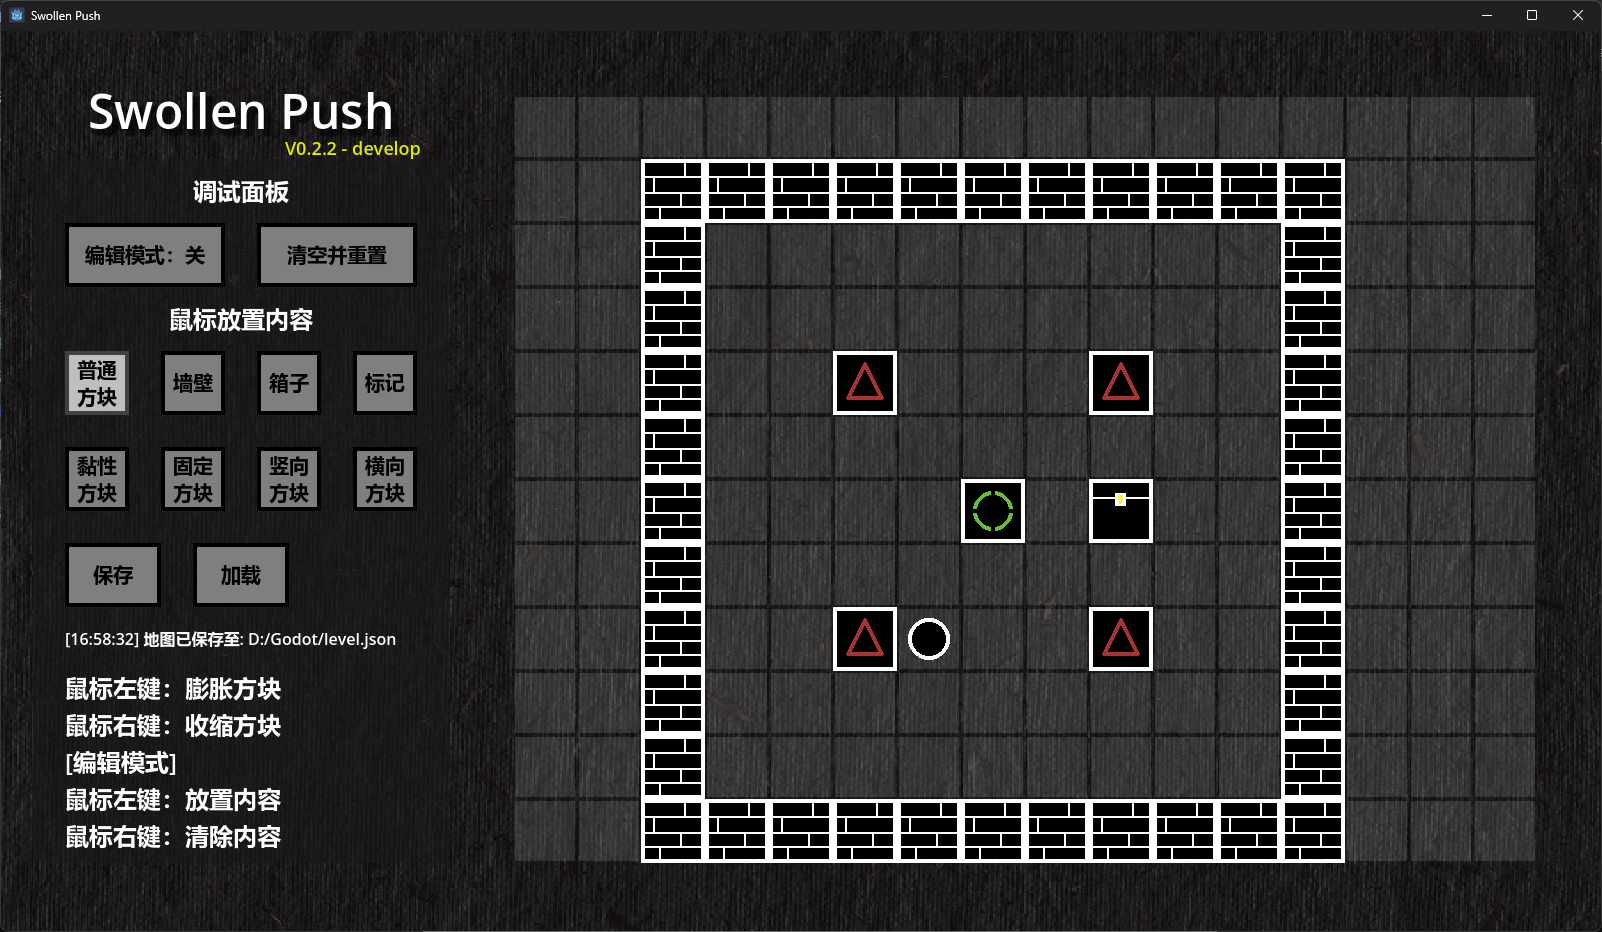
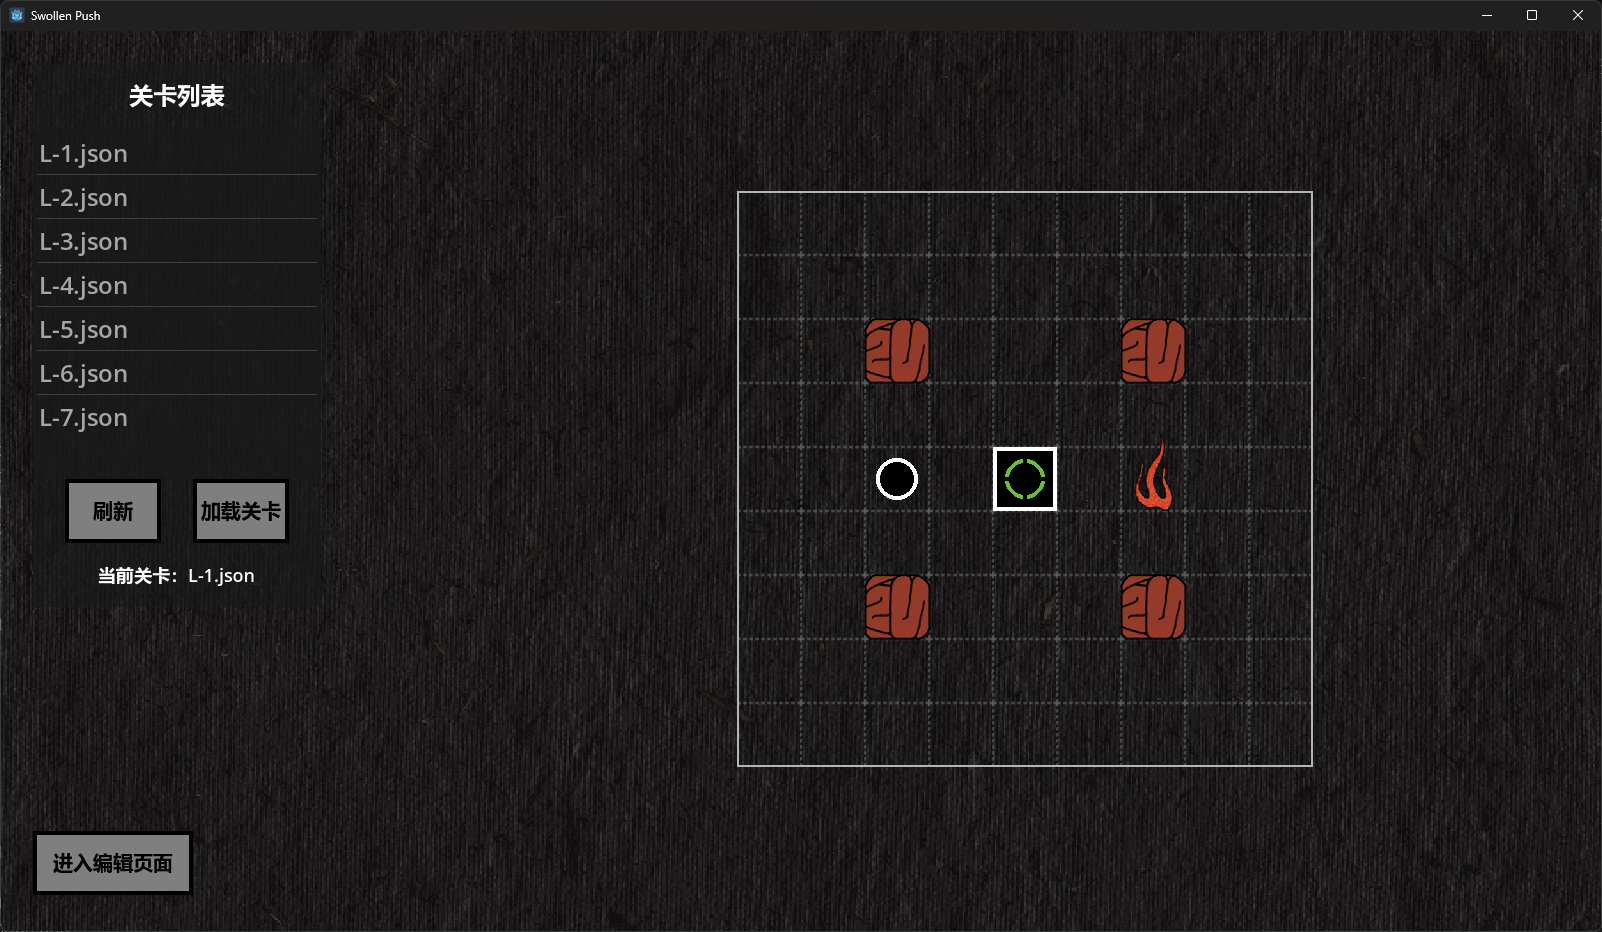
0.3.0 fix

diff --git a/README.md b/README.md
@@ -3,7 +3,7 @@
 
 这是一个为Gamejam而写的类推箱子游戏。
 
-当前版本：0.2.2
+当前版本：0.3.0
 
 ### 操作说明
 鼠标左键：膨胀方块
@@ -16,9 +16,7 @@
 
 鼠标右键：清除内容
 
-目前可以设置的物体有：方块（普通、黏性、固定、横向、竖向）、箱子、墙壁、洞穴；
-
-
+目前可以设置的物体有：方块（普通、黏性、固定、爆炸）、箱子、墙壁、洞穴；
 
 
 保存：将当前地图以json文件保存至当前目录下
@@ -32,23 +30,25 @@
 
 **方块可以改变大小**：鼠标左键方块使其膨胀，右键使其收缩——可以利用这一点推动箱子；
 
-方块的大小有1x1、3x3、5x5三种形态（横向和竖向方块例外）；
+方块的大小有1x1、3x3、5x5三种形态；
 
 墙壁无法被推动，也改变不了大小；
 
 洞穴没有体积，只需要将箱子推到这里就好；
 
-方块有**五种**类型：**普通方块、黏性方块、固定方块、横向方块、竖向方块**；
+方块有**四种**类型：**普通方块、黏性方块、固定方块、爆炸方块**；
 
 普通方块可以被其它方块推动或黏住；
 
 黏性方块可以黏住其接触到的物体，除了固定方块和墙壁；
 
-固定方块无法被其它方块推动和黏住；
+固定方块无法被其它方块推动和黏住，除了爆炸方块的最后一下爆炸；
 
-横向方块只能在水平方向上膨胀和收缩，竖向方块同理；
+爆炸方块具有一次额外膨胀，且在此膨胀后会爆炸，除此之外与普通方块无异；爆炸具有强大的推力；
 
 ## 界面展示
 
-![01](./pic/01.png)
+![游戏界面](./pic/01.png)
+
+![编辑界面](./pic/02.png)
 
